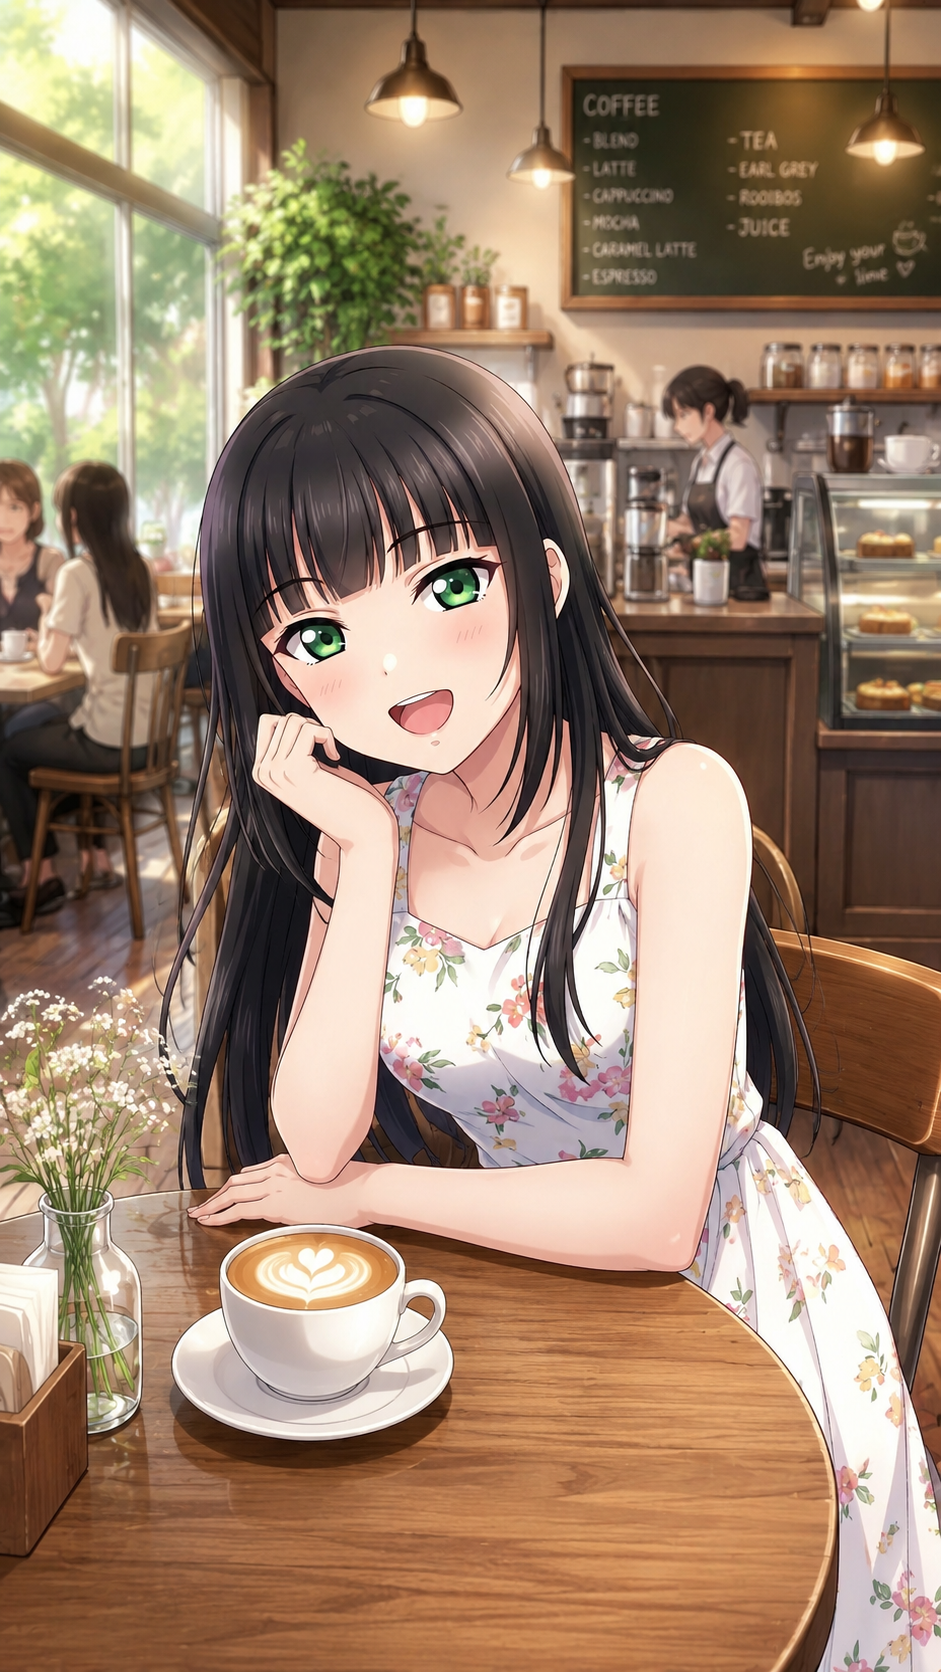
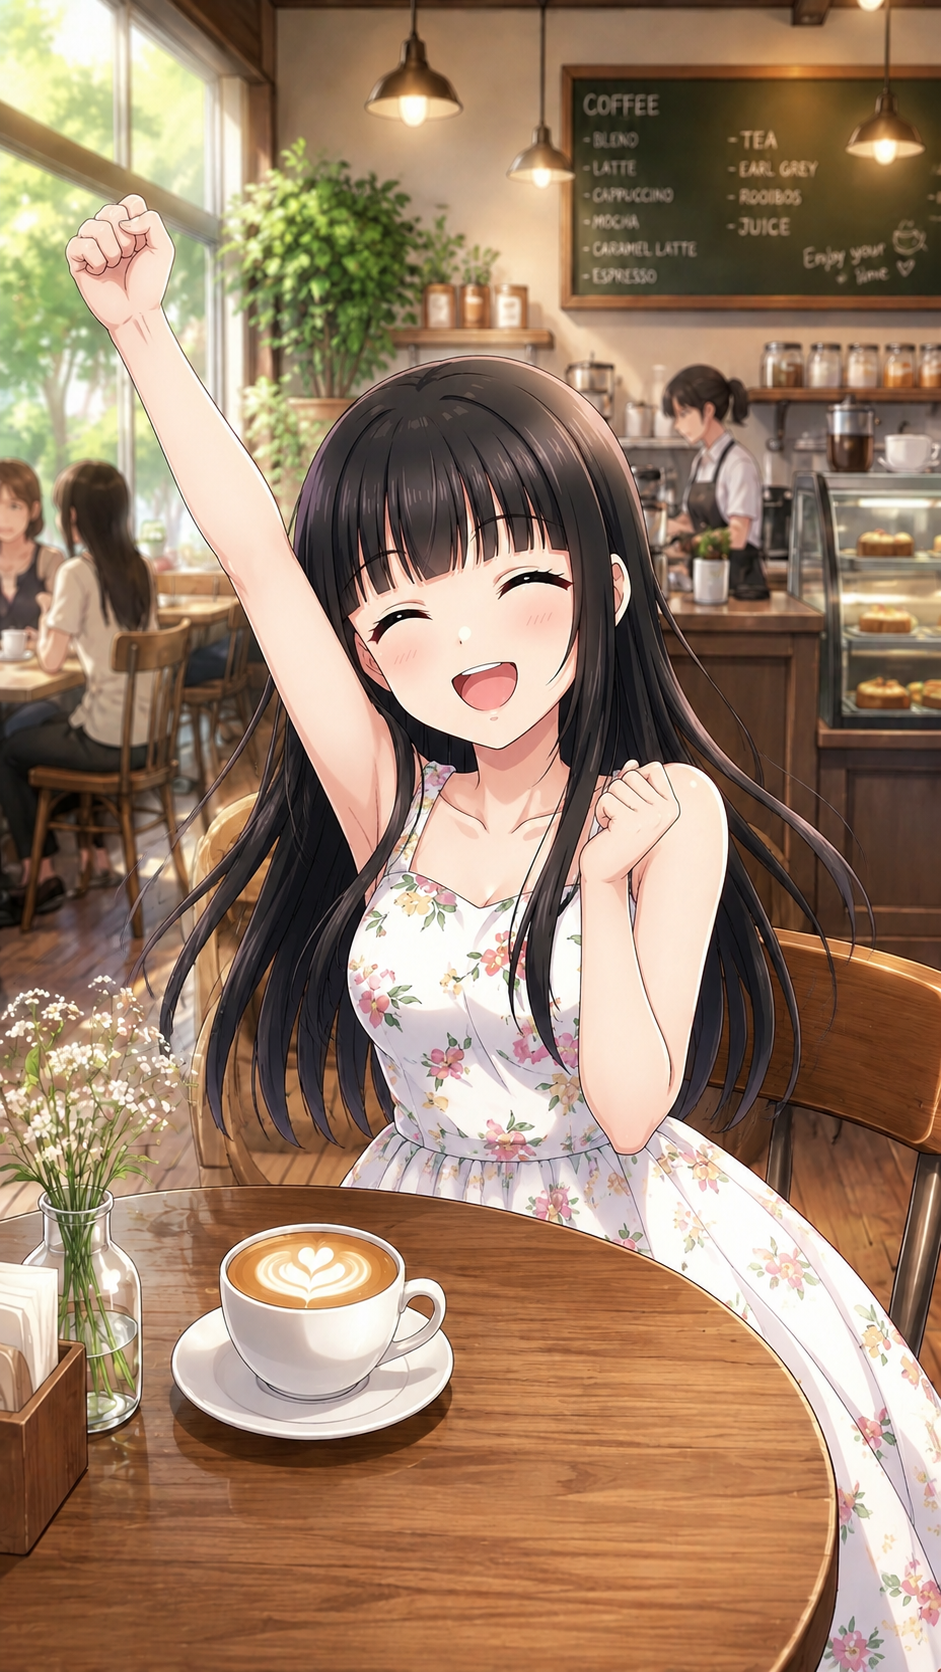
feat:ai,story1 change

diff --git a/frontend/src/app/story/1/page.tsx b/frontend/src/app/story/1/page.tsx
@@ -6,7 +6,13 @@ import { useRouter } from "next/navigation";
 import { useEffect, useState } from "react";
 import { getSupabase } from "@/lib/supabase";
 
-type Bg = "street-happy" | "street-mad" | "cafe-happy" | "cafe-mad";
+type Bg =
+  | "street-happy"
+  | "street-normal"
+  | "street-mad"
+  | "cafe-happy"
+  | "cafe-normal"
+  | "cafe-mad";
 
 type Option = { ko: string; correct?: boolean };
 type WrongFB = { madBg: Bg; ja: string; ko: string };
@@ -34,9 +40,11 @@ type Beat = (
 ) & { bg?: Bg };
 
 const BG_SRC: Record<Bg, string> = {
-  "street-happy": "/images/stage1-street-happy.jpg",
+  "street-happy": "/images/stage1-street-happy.png",
+  "street-normal": "/images/stage1-street-normal.jpg",
   "street-mad": "/images/stage1-street-mad.png",
   "cafe-happy": "/images/stage1-cafe-happy.png",
+  "cafe-normal": "/images/stage1-cafe-normal.png",
   "cafe-mad": "/images/stage1-cafe-mad.png",
 };
 
@@ -52,11 +60,13 @@ const SCRIPT: Beat[] = [
   },
   {
     kind: "narr",
+    bg: "street-normal",
     ja: "新しいケータイの地図に夢中で歩いていたら——",
     ko: "새 휴대폰 지도만 들여다보며 걷고 있던 그 순간——",
   },
   {
     kind: "narr",
+    bg: "street-normal",
     ja: "角を曲がった瞬間、誰かと——!",
     ko: "모퉁이를 도는 순간, 누군가와——!",
   },
@@ -70,7 +80,7 @@ const SCRIPT: Beat[] = [
     ja: "ごめんなさい ／ すみません",
     reading: "고멘나사이 ／ 스미마셍",
     meaning: "미안해요 ／ 실례합니다",
-    note: "「ごめんなさい」는 사과 전용. 「すみません」는 사과 + 부탁 + 가게에서 \"저기요\" 까지 쓰는 만능 표현이에요.",
+    note: '「ごめんなさい」는 사과 전용. 「すみません」는 사과 + 부탁 + 가게에서 "저기요" 까지 쓰는 만능 표현이에요.',
     example: "すみません、コーヒーください。— 저기요, 커피 주세요.",
   },
   {
@@ -93,7 +103,7 @@ const SCRIPT: Beat[] = [
     ja: "大丈夫(だいじょうぶ)",
     reading: "다이죠-부",
     meaning: "괜찮다 ／ 괜찮아?",
-    note: "끝을 내리면 \"괜찮다\", 끝을 올리면 \"괜찮아?\". 일본인이 정말 자주 쓰는 만능 표현이에요.",
+    note: '끝을 내리면 "괜찮다", 끝을 올리면 "괜찮아?". 일본인이 정말 자주 쓰는 만능 표현이에요.',
     example: "大丈夫です。— 괜찮습니다. ／ 大丈夫ですか？— 괜찮으세요?",
   },
   {
@@ -108,7 +118,7 @@ const SCRIPT: Beat[] = [
   },
   {
     kind: "narr",
-    bg: "cafe-happy",
+    bg: "cafe-normal",
     ja: "こうして、見ず知らずの人とカフェで向かい合っている。",
     ko: "그렇게, 모르는 사람과 카페에 마주 앉았다.",
   },
@@ -141,7 +151,7 @@ const SCRIPT: Beat[] = [
   },
   {
     kind: "quiz",
-    question: "처음 만난 사람에게 \"잘 부탁드립니다\" 라고 하려면?",
+    question: '처음 만난 사람에게 "잘 부탁드립니다" 라고 하려면?',
     hint: "정중한 첫 인사 표현",
     options: [
       { ko: "ありがとうございます" },
@@ -163,6 +173,7 @@ const SCRIPT: Beat[] = [
   },
   {
     kind: "narr",
+    bg: "cafe-happy",
     ja: "春希は少しだけ笑った。その笑顔に、また胸が——トクン。",
     ko: "하루키가 살짝 미소지었다. 그 미소에 또, 가슴이——두근.",
   },
@@ -173,7 +184,7 @@ const SCRIPT: Beat[] = [
   },
   {
     kind: "quiz",
-    question: "메뉴를 가리키며 \"이거 주세요\" 라고 하려면?",
+    question: '메뉴를 가리키며 "이거 주세요" 라고 하려면?',
     hint: "내 근처에 있는 물건",
     options: [
       { ko: "これ、ください", correct: true },
@@ -367,8 +378,7 @@ function DialogueBox({
   onTap: () => void;
   beatKey: number;
 }) {
-  const tone =
-    beat.kind === "line" ? "haruki" : ("narr" as "haruki" | "narr");
+  const tone = beat.kind === "line" ? "haruki" : ("narr" as "haruki" | "narr");
   const isThought = beat.kind === "thought";
 
   return (
@@ -572,8 +582,7 @@ function EndCard({ wrongCount }: { wrongCount: number }) {
             NEXT ・ 다음 화
           </p>
           <p className="mt-0.5 text-[13px] font-extrabold text-white">
-            흔들리는 마음{" "}
-            <span className="text-lilac-200">・ 揺れる心</span>
+            흔들리는 마음 <span className="text-lilac-200">・ 揺れる心</span>
           </p>
         </div>
         <span className="rounded-full bg-white/15 px-2 py-0.5 text-[10px] font-extrabold tracking-[0.18em] text-white ring-1 ring-white/25">
@@ -745,7 +754,9 @@ export default function Stage1Page() {
         type="button"
         onClick={advance}
         aria-label="계속"
-        disabled={!!madFB || !beat || beat.kind === "quiz" || beat.kind === "end"}
+        disabled={
+          !!madFB || !beat || beat.kind === "quiz" || beat.kind === "end"
+        }
         className="relative z-10 flex-1 cursor-pointer disabled:cursor-default"
       />
 
